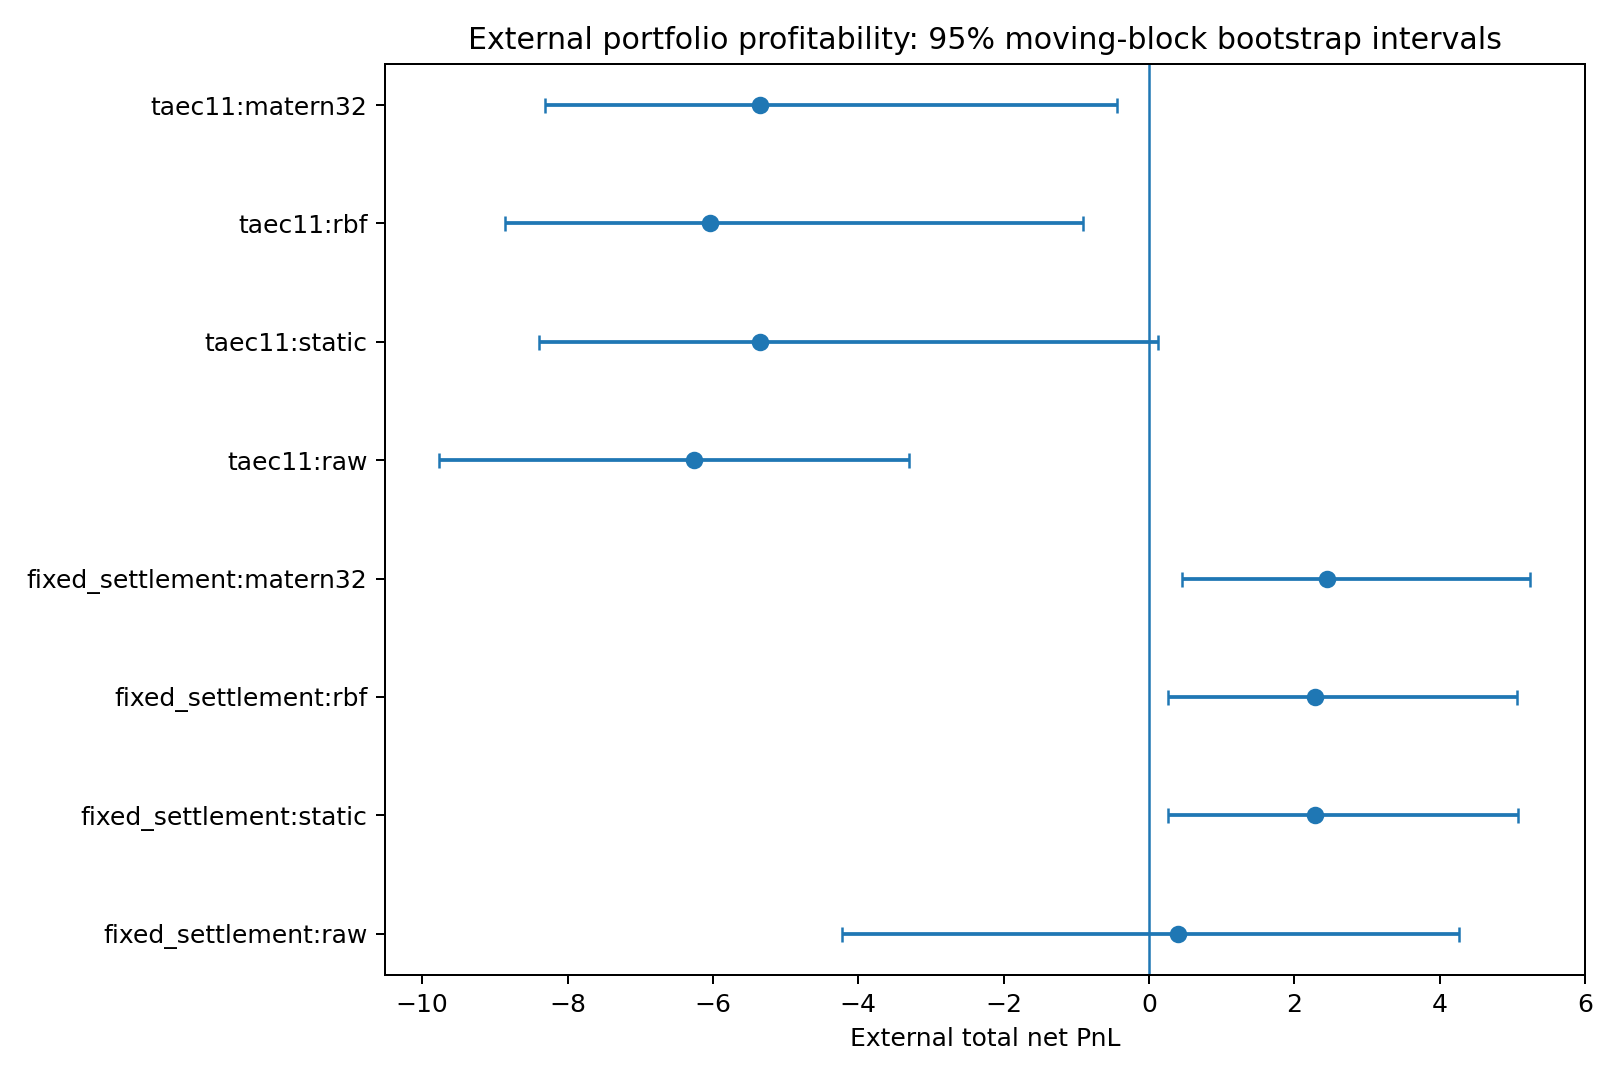
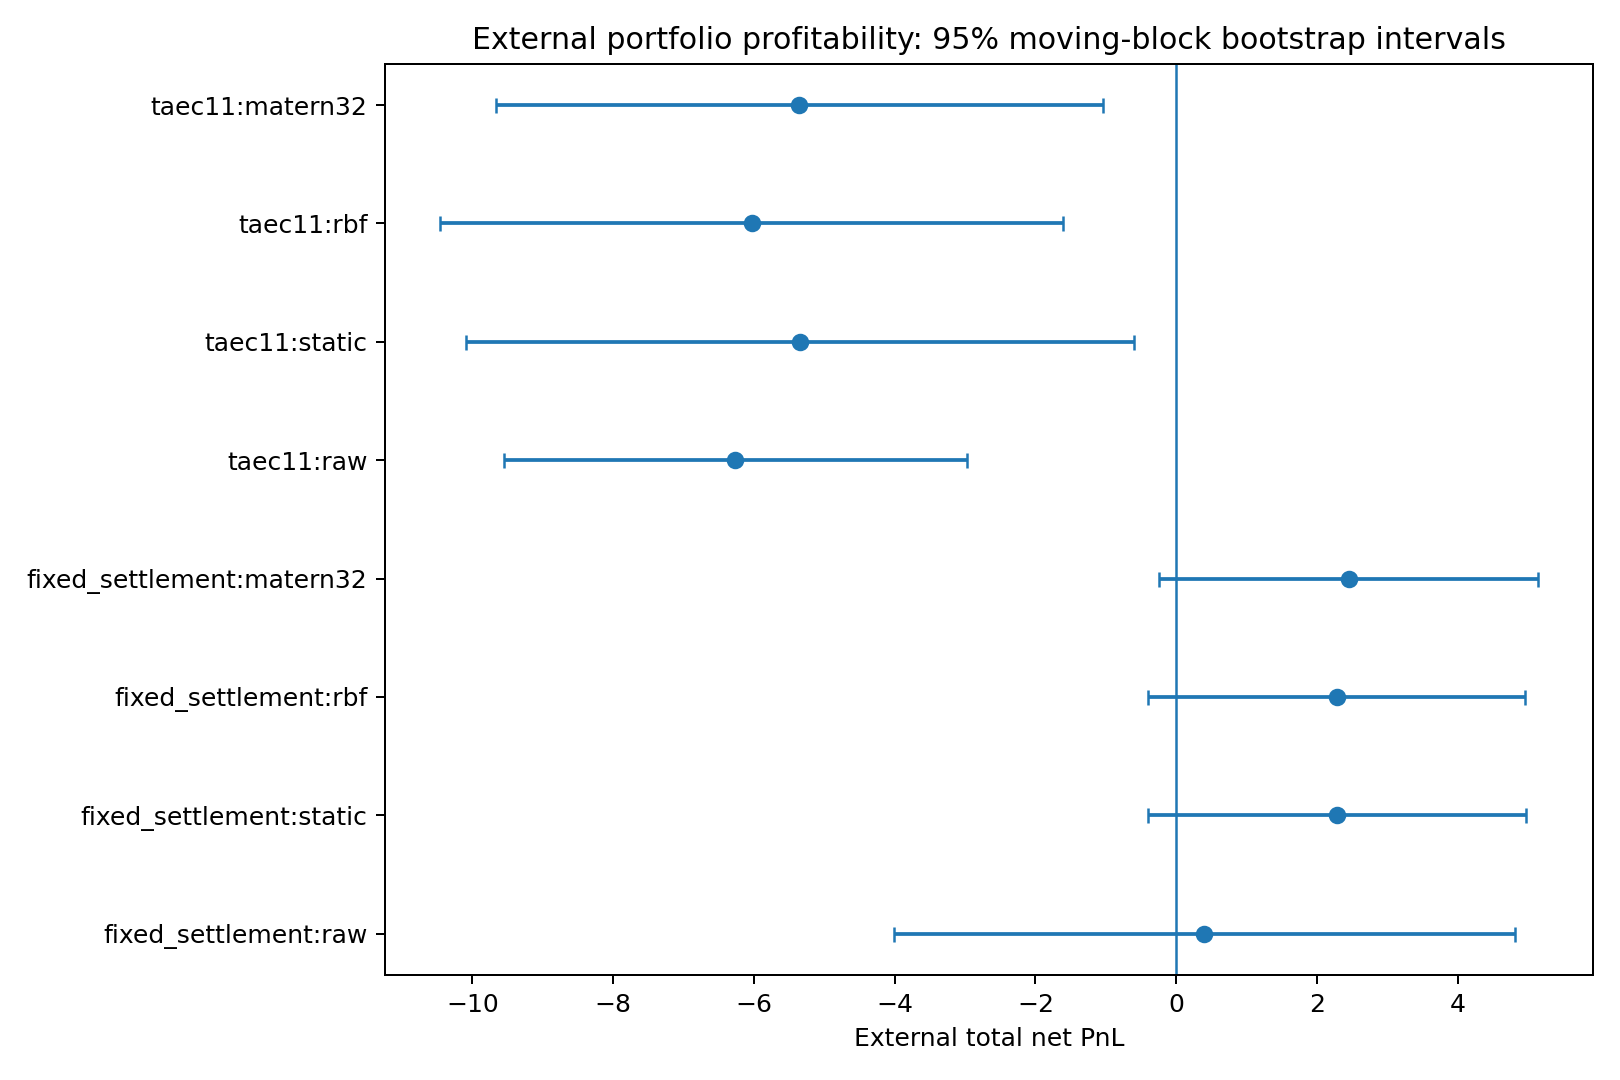
Align Stage 4 bootstrap intervals and inference wording

diff --git a/src/trading_contrast_extension/stage4.py b/src/trading_contrast_extension/stage4.py
@@ -232,10 +232,6 @@ def mean_test(
         axis=1,
     )
 
-    ci_mean = percentile_interval(
-        boot_means
-    )
-
     centered = (
         x
         - observed_mean
@@ -246,6 +242,24 @@ def mean_test(
             idx
         ],
         axis=1,
+    )
+
+    # Invert the same centred two-sided bootstrap null distribution used
+    # for the test. This keeps the 95% interval and p-value coherent.
+    critical = float(
+        np.quantile(
+            np.abs(
+                null_means
+            ),
+            1.0 - ALPHA,
+        )
+    )
+
+    ci_mean = (
+        observed_mean
+        - critical,
+        observed_mean
+        + critical,
     )
 
     p_two = (
@@ -1710,30 +1724,46 @@ def interpretation(
         ]
     )
 
-    if bool(
+    primary_reject = bool(
         row[
             "holm_reject_5pct"
         ]
-    ):
-        direction = (
-            "positive"
-            if estimate > 0
-            else "negative"
-        )
+    )
 
-        return (
-            f"Statistically resolved {direction} effect under the "
-            "7-date moving-block bootstrap after Holm correction."
-        )
-
-    if bool(
+    dependence_sensitive = bool(
         row[
             "dependence_sensitive_5pct"
         ]
+    )
+
+    direction = (
+        "positive"
+        if estimate > 0
+        else "negative"
+    )
+
+    if (
+        primary_reject
+        and dependence_sensitive
     ):
         return (
-            "Inference is dependence-sensitive: ordinary and moving-block "
-            "bootstrap significance classifications differ."
+            f"The primary 7-date moving-block bootstrap with Holm correction "
+            f"indicates a {direction} effect, but the conclusion is "
+            "dependence-sensitive because the ordinary-bootstrap significance "
+            "classification differs."
+        )
+
+    if dependence_sensitive:
+        return (
+            "Not statistically resolved under the primary moving-block/Holm "
+            "procedure; inference is dependence-sensitive because the ordinary "
+            "bootstrap significance classification differs."
+        )
+
+    if primary_reject:
+        return (
+            f"Statistically resolved {direction} effect under the "
+            "7-date moving-block bootstrap after Holm correction."
         )
 
     return (
@@ -1818,6 +1848,23 @@ def claims_register(
         ),
     ]:
         for _, r in frame.iterrows():
+            comparison = str(
+                r[
+                    "comparison"
+                ]
+            )
+
+            if (
+                r[
+                    "family"
+                ]
+                == "within_strategy_model_pairwise"
+            ):
+                comparison = (
+                    f"{r['strategy']}: "
+                    + comparison
+                )
+
             rows.append(
                 {
                     "family":
@@ -1825,9 +1872,7 @@ def claims_register(
                             "family"
                         ],
                     "comparison":
-                        r[
-                            "comparison"
-                        ],
+                        comparison,
                     "estimate":
                         r[
                             estimate_col
@@ -2688,6 +2733,12 @@ def main() -> None:
             BOOTSTRAP_REPS,
         "confidence_level":
             0.95,
+        "mean_test_interval_method":
+            (
+                "95% symmetric centred-bootstrap interval obtained by "
+                "inverting the same two-sided null distribution used for "
+                "the corresponding mean test"
+            ),
         "multiplicity":
             (
                 "Holm family-wise correction within each pre-specified family; "

diff --git a/tests/trading_contrast_extension/test_stage4.py b/tests/trading_contrast_extension/test_stage4.py
@@ -240,6 +240,95 @@ class TestTradingContrastStage4(
             )
 
 
+    def test_mean_test_ci_pvalue_coherence(self):
+        frames = [
+            self.profit,
+            self.pairwise,
+            self.strategy,
+            self.conv,
+        ]
+
+        for x in frames:
+            for _, row in x.iterrows():
+                p = float(
+                    row[
+                        "mbb_p_two_sided"
+                    ]
+                )
+
+                lo = float(
+                    row[
+                        "mbb_ci95_total_lower"
+                    ]
+                )
+
+                hi = float(
+                    row[
+                        "mbb_ci95_total_upper"
+                    ]
+                )
+
+                excludes_zero = (
+                    lo > 0
+                    or hi < 0
+                )
+
+                if p < 0.05:
+                    self.assertTrue(
+                        excludes_zero
+                    )
+                else:
+                    self.assertFalse(
+                        excludes_zero
+                    )
+
+    def test_dependence_sensitive_claim_wording(self):
+        claims = pd.read_csv(
+            OUT
+            / "stage4_inference_claims_register.csv"
+        )
+
+        sensitive = claims.loc[
+            claims[
+                "dependence_sensitive_5pct"
+            ]
+        ]
+
+        for _, row in sensitive.iterrows():
+            self.assertIn(
+                "dependence-sensitive",
+                str(
+                    row[
+                        "interpretation"
+                    ]
+                ).lower(),
+            )
+
+    def test_pairwise_claims_have_strategy_context(self):
+        claims = pd.read_csv(
+            OUT
+            / "stage4_inference_claims_register.csv"
+        )
+
+        pairwise = claims.loc[
+            claims[
+                "family"
+            ]
+            == "within_strategy_model_pairwise"
+        ]
+
+        self.assertTrue(
+            pairwise[
+                "comparison"
+            ].str.startswith(
+                (
+                    "fixed_settlement:",
+                    "taec11:",
+                )
+            ).all()
+        )
+
+
 if __name__ == "__main__":
     unittest.main(
         verbosity=2

diff --git a/docs/trading_contrast_extension/STAGE4_RESULTS.md b/docs/trading_contrast_extension/STAGE4_RESULTS.md
@@ -99,3 +99,8 @@ VaR, expected shortfall and maximum drawdown are accompanied by bootstrap uncert
 ## Next stage
 
 Stage 5 examines transaction-cost break-even levels, concentration, support, execution-proxy sensitivity and robustness of the aggressive-strategy findings before the final thesis-value pruning and release audit.
+
+
+## Inferential presentation clarification
+
+Mean-effect confidence intervals are centred-bootstrap 95% intervals obtained by inverting the same two-sided null distribution used for the corresponding moving-block or ordinary bootstrap test. This avoids presenting a percentile interval that can exclude zero while the associated centred-bootstrap two-sided test does not reject. Claims that are significant under the primary moving-block/Holm procedure but not under ordinary resampling are explicitly labelled dependence-sensitive rather than unconditionally resolved.
